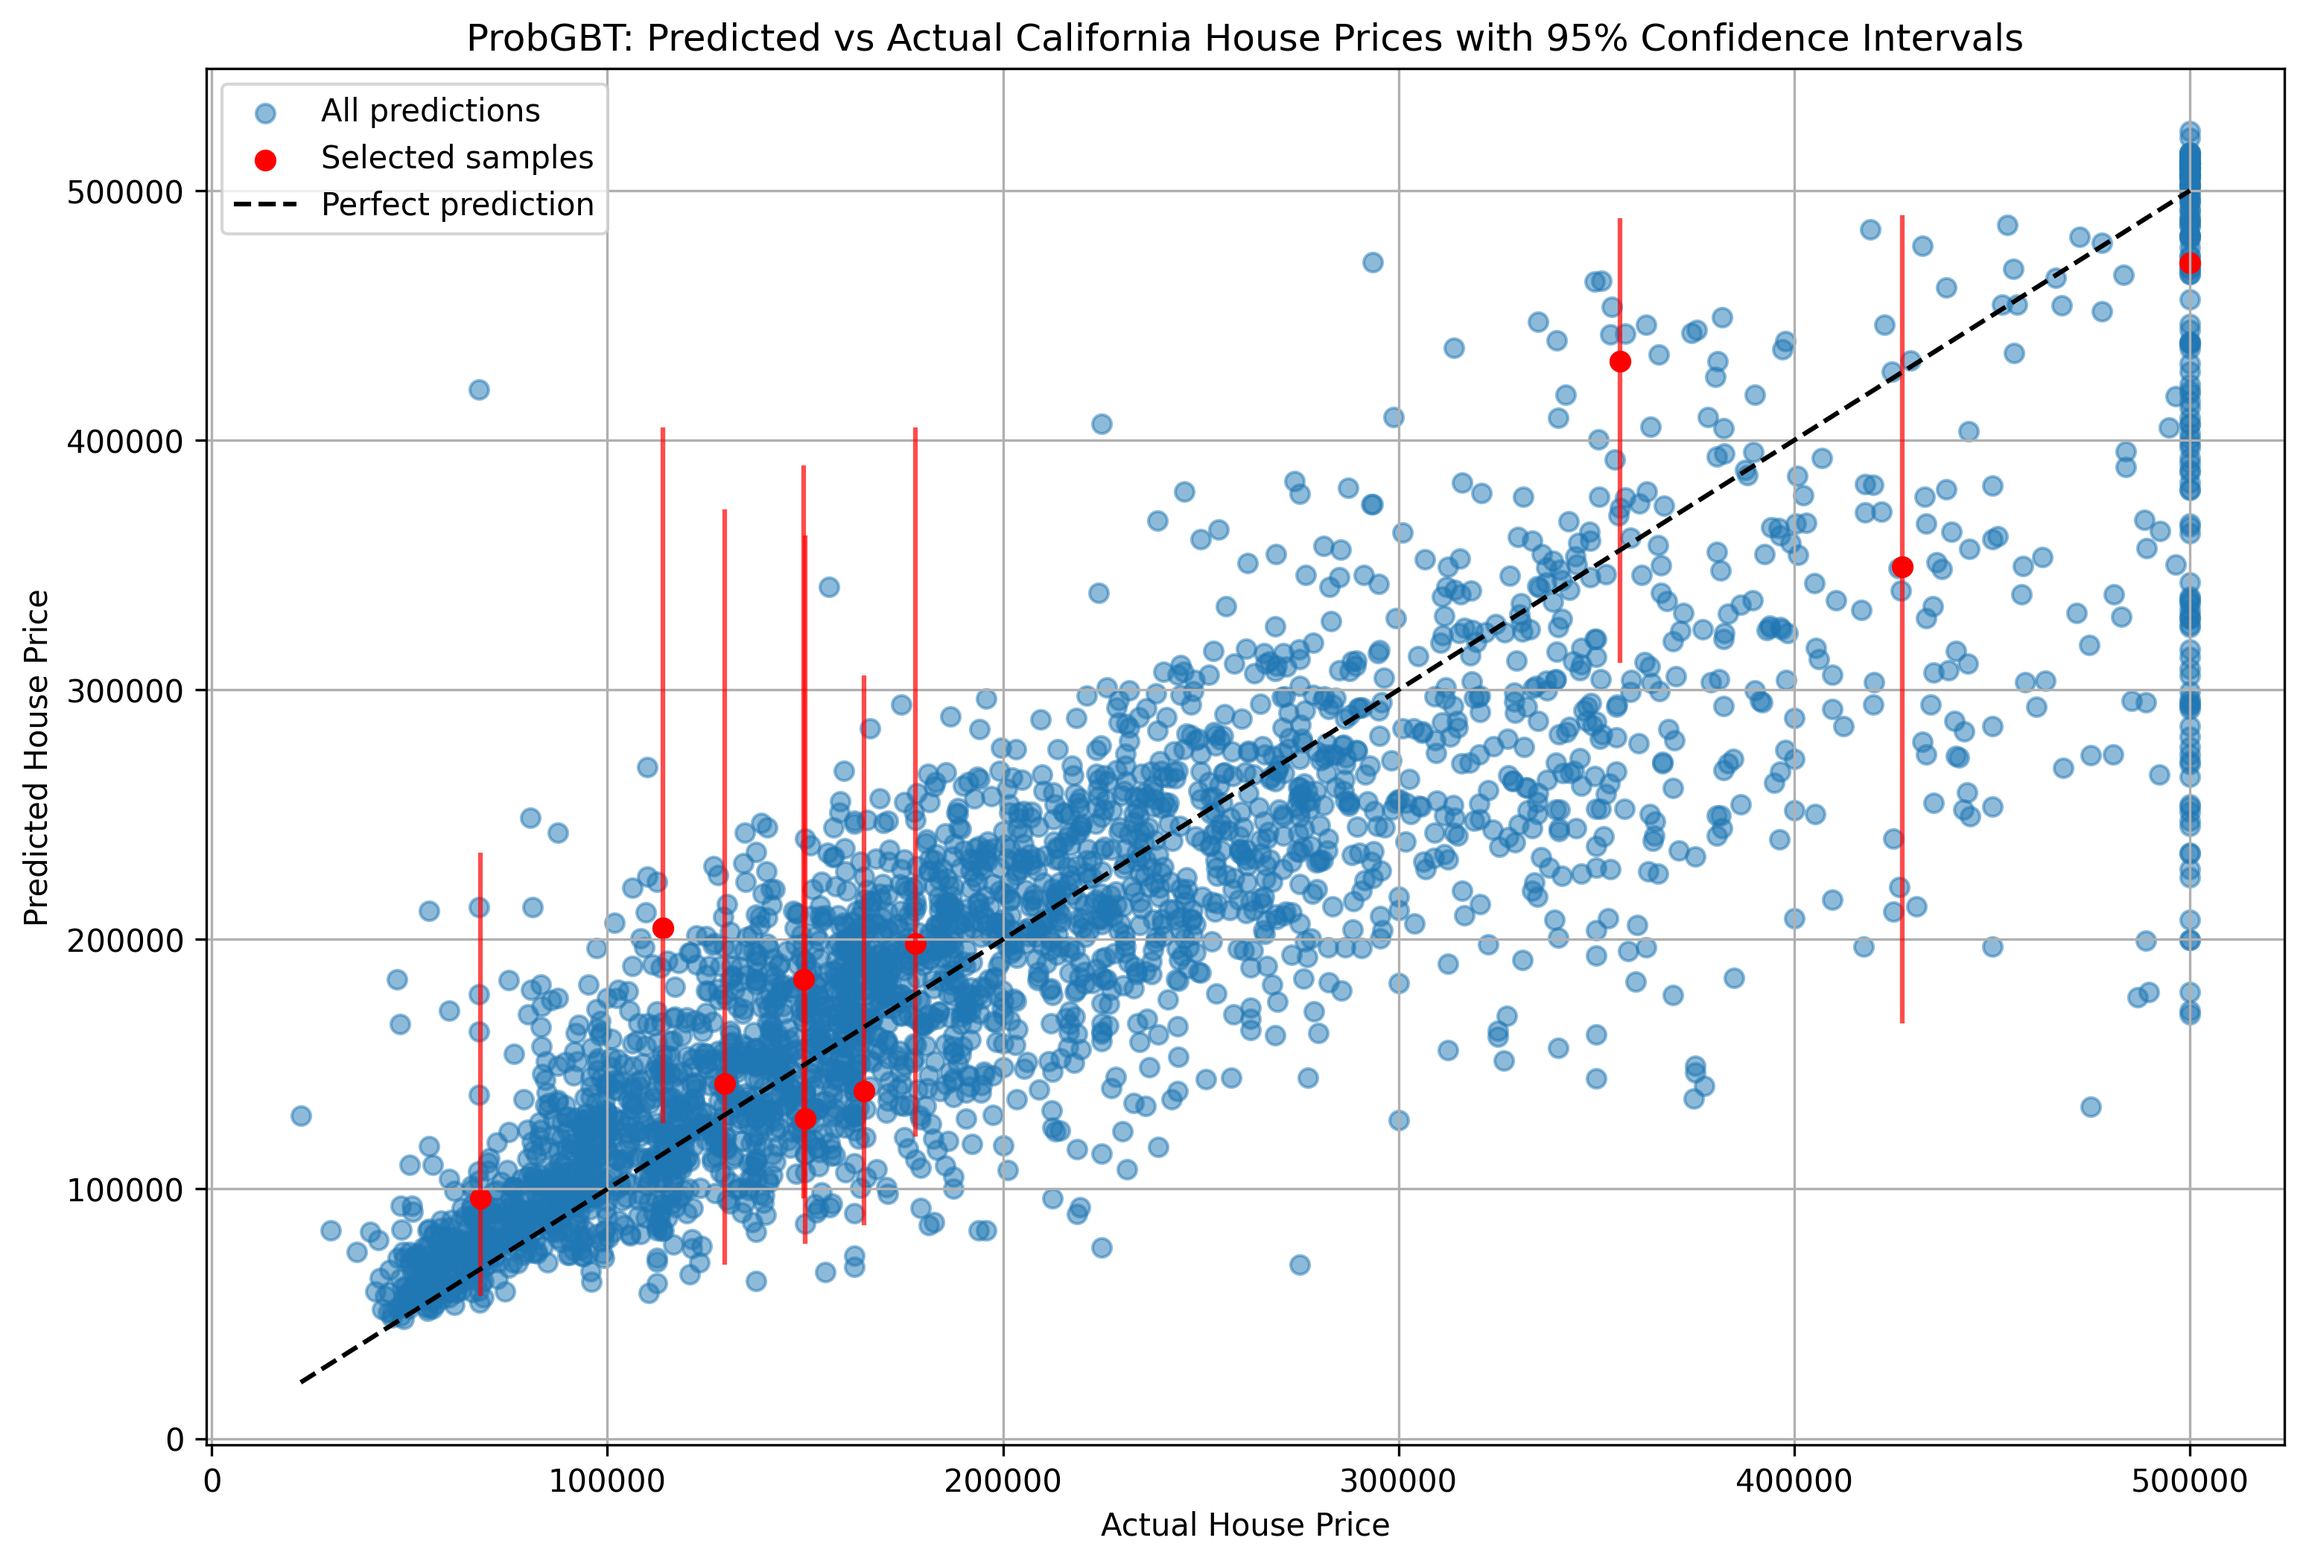
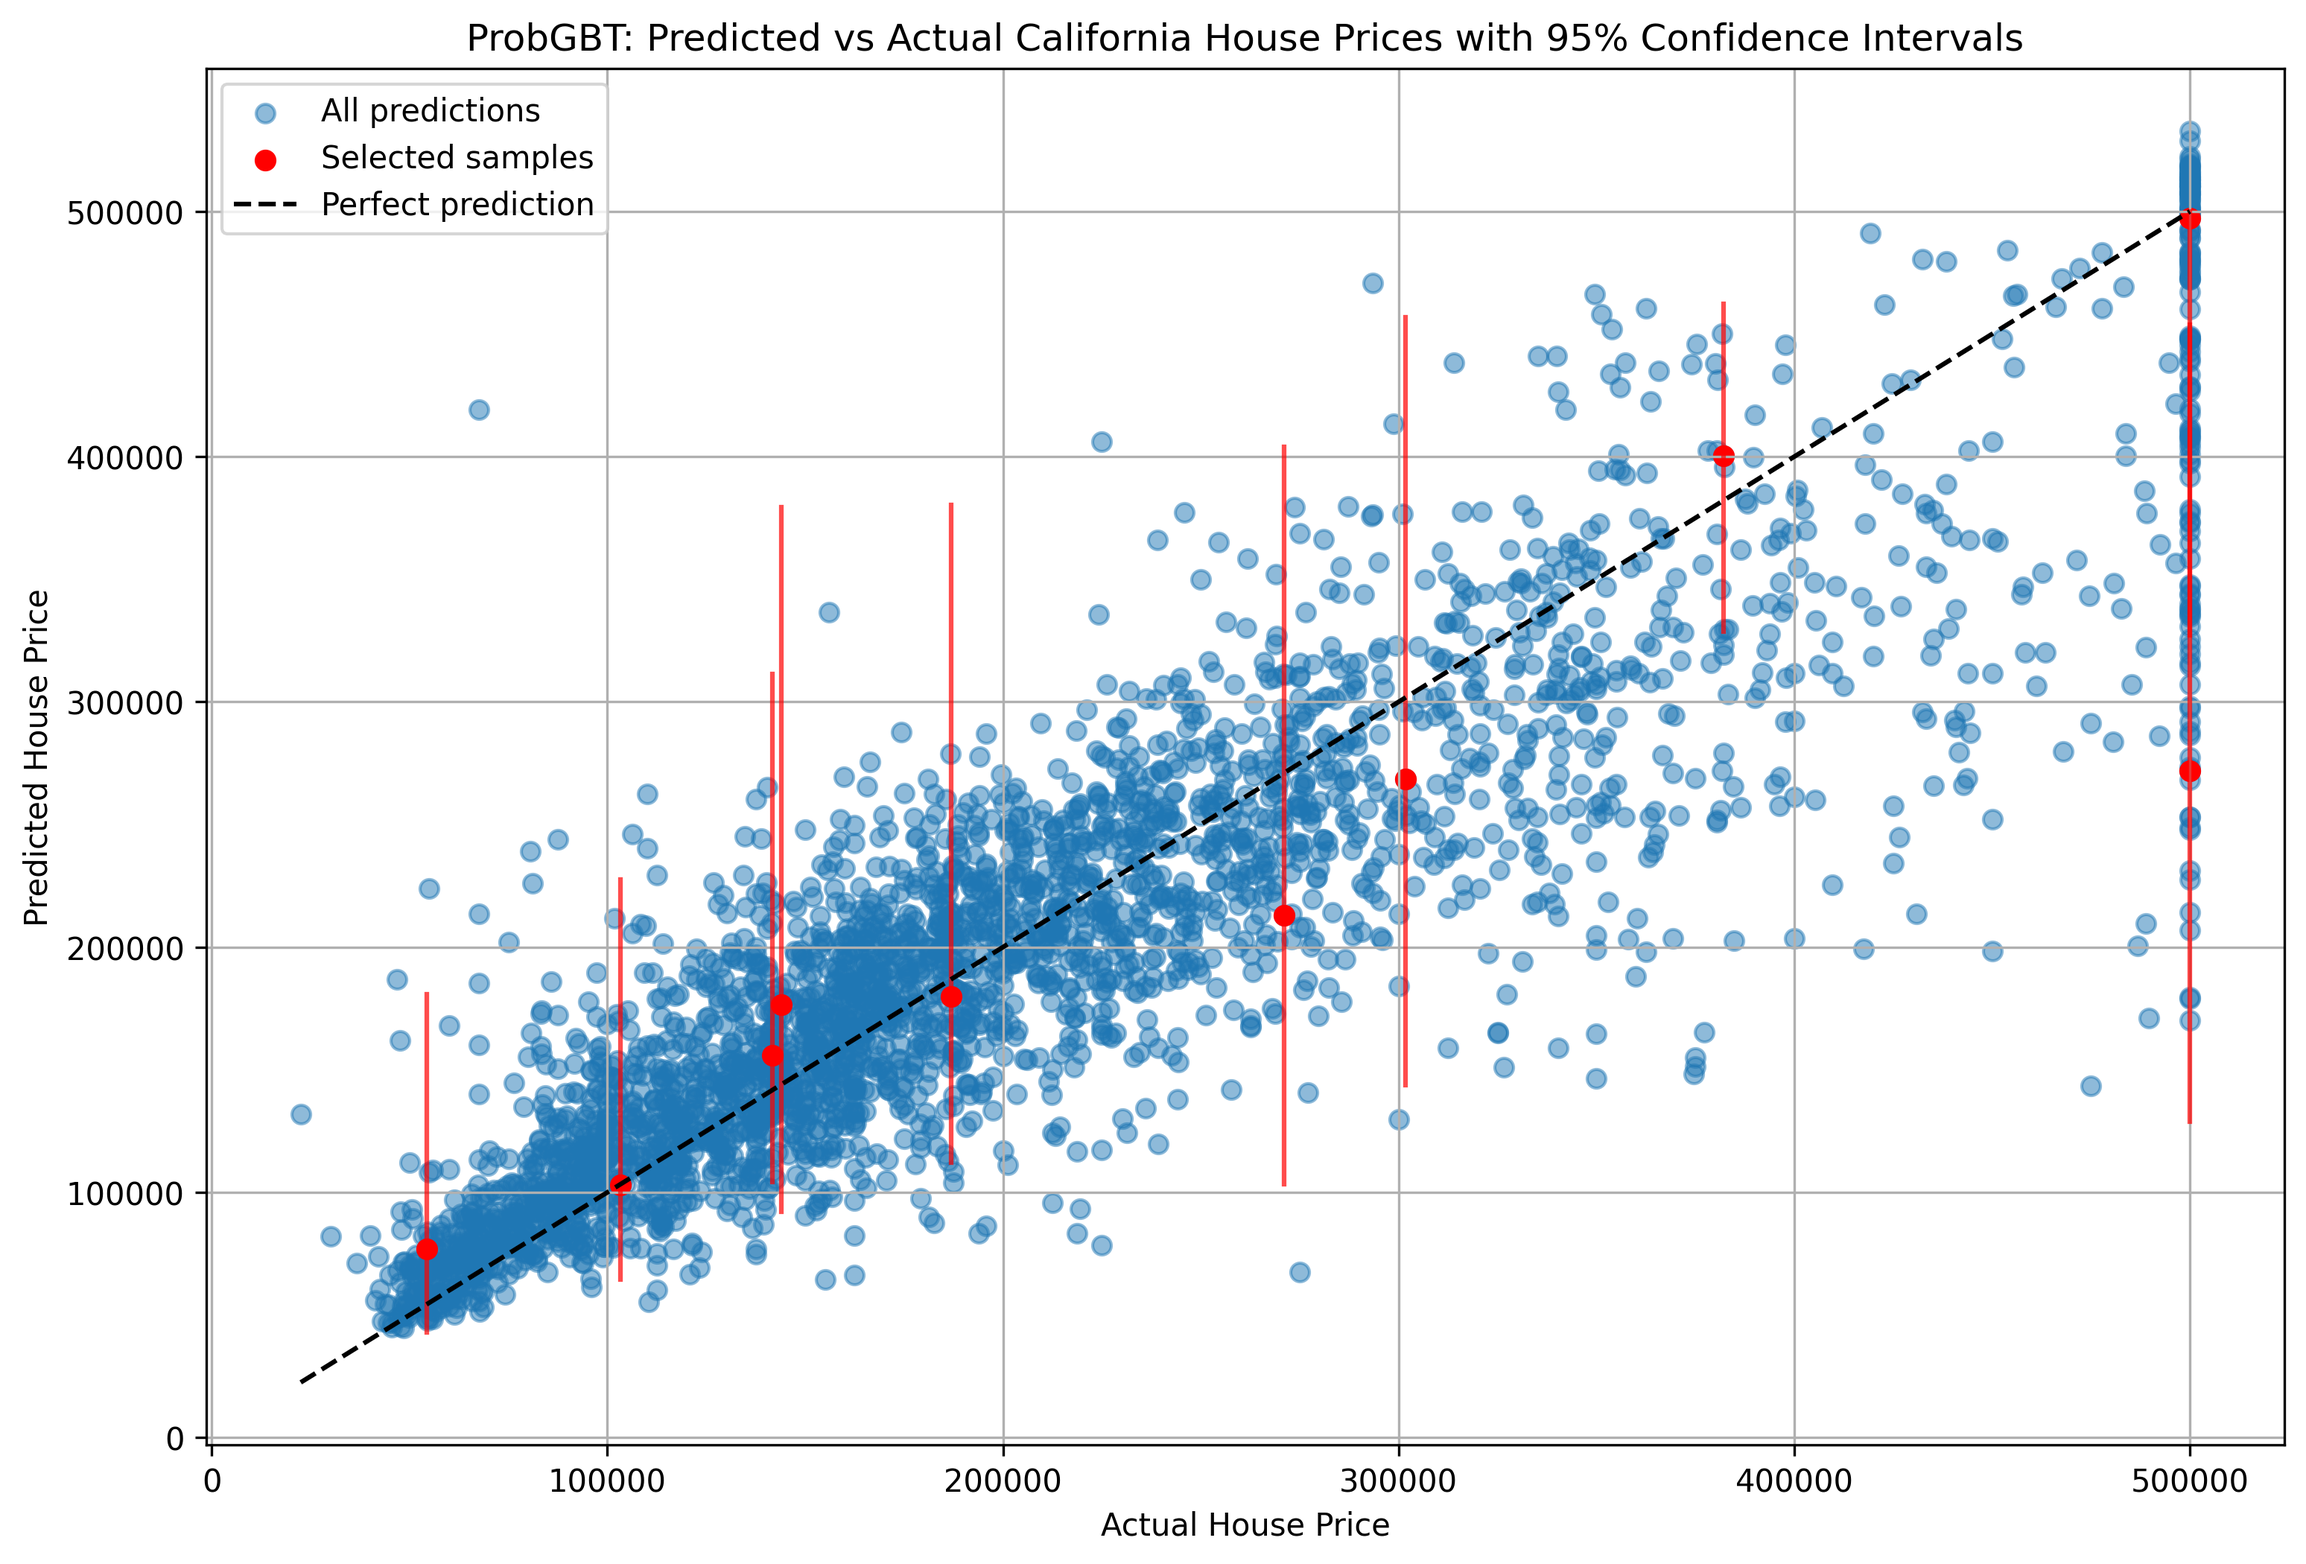
Add more checks to GMM method

diff --git a/prob_gbt/prob_gbt.py b/prob_gbt/prob_gbt.py
@@ -303,17 +303,73 @@ class ProbGBT:
                     gmm = GaussianMixture(n_components=3, max_iter=1000)
                     gmm.fit(y_pred_smooth.reshape(-1, 1))
                     
-                    # Generate final smoothed PDF on a regular grid
-                    x_values = np.linspace(np.min(y_pred_smooth), np.max(y_pred_smooth), num_points)
-                    pdf_values = np.exp(gmm.score_samples(x_values.reshape(-1, 1)))
-                    
-                    # Normalize the PDF
-                    integral = np.trapz(pdf_values, x_values)
-                    if integral > 1e-10:
-                        pdf_values /= integral
+                    # Check if GMM converged
+                    if not gmm.converged_:
+                        print(f"Warning: GMM did not converge after {gmm.n_iter_} iterations, using spline result")
+                        x_values = y_pred_smooth
+                        pdf_values = pdf_smooth
                     else:
-                        # If integral is too small, use a uniform distribution
-                        pdf_values = np.ones_like(x_values) / len(x_values)
+                        # Generate final smoothed PDF on a regular grid
+                        x_values = np.linspace(np.min(y_pred_smooth), np.max(y_pred_smooth), num_points)
+                        pdf_values = np.exp(gmm.score_samples(x_values.reshape(-1, 1)))
+                        
+                        # Much more aggressive checks for problematic GMM outputs
+                        use_gmm = True
+                        
+                        # 1. Check for any invalid values
+                        if np.any(np.isnan(pdf_values)) or np.any(np.isinf(pdf_values)) or np.all(pdf_values < 1e-10):
+                            print(f"Warning: GMM produced invalid values, using spline result")
+                            use_gmm = False
+                            
+                        # 2. Check for extremely peaked distributions (very common failure mode)
+                        if use_gmm:
+                            pdf_max = np.max(pdf_values)
+                            pdf_mean = np.mean(pdf_values)
+                            if pdf_max > 100 * pdf_mean:  # Less extreme threshold to be more cautious
+                                print(f"Warning: GMM produced extremely peaked distribution (max/mean ratio: {pdf_max/pdf_mean:.1f}), using spline result")
+                                use_gmm = False
+                        
+                        # 3. Check for too narrow effective support (another common failure)
+                        if use_gmm:
+                            # Count points with significant probability mass
+                            significant_points = np.sum(pdf_values > pdf_max * 0.01)
+                            if significant_points < num_points * 0.01:  # Less than 1% of points have significant probability
+                                print(f"Warning: GMM output has too narrow effective support ({significant_points}/{num_points} significant points), using spline result")
+                                use_gmm = False
+                        
+                        # 4. Generate a test CDF and check its properties
+                        if use_gmm:
+                            # Normalize PDF first
+                            integral = np.trapz(pdf_values, x_values)
+                            if integral <= 1e-10:
+                                print(f"Warning: GMM produced too small integral ({integral}), using spline result")
+                                use_gmm = False
+                            else:
+                                # Normalize and compute test CDF
+                                pdf_values /= integral
+                                test_cdf = cumulative_trapezoid(pdf_values, x_values, initial=0)
+                                
+                                # Check that CDF is usable for confidence intervals
+                                if test_cdf[-1] <= 0.9:  # CDF should end close to 1
+                                    print(f"Warning: GMM produced CDF that doesn't reach 1 (max: {test_cdf[-1]:.3f}), using spline result")
+                                    use_gmm = False
+                                    
+                                # Check if CDF has enough distinct steps for quantile calculation
+                                elif np.count_nonzero(np.diff(test_cdf) > 1e-6) < 20:
+                                    print(f"Warning: GMM produced CDF with too few increasing steps, using spline result")
+                                    use_gmm = False
+                                    
+                                # Check if the CDF can extract reasonable quantiles
+                                elif any(np.isclose(np.searchsorted(test_cdf, q) / len(test_cdf), 0) or 
+                                         np.isclose(np.searchsorted(test_cdf, q) / len(test_cdf), 1) 
+                                         for q in [0.025, 0.25, 0.5, 0.75, 0.975]):
+                                    print(f"Warning: GMM produced CDF that would give extreme quantiles, using spline result")
+                                    use_gmm = False
+                        
+                        # Finally, use spline results if any test failed
+                        if not use_gmm:
+                            x_values = y_pred_smooth
+                            pdf_values = pdf_smooth
                         
                 except Exception as e:
                     # If GMM fails, fall back to the spline result
@@ -327,6 +383,9 @@ class ProbGBT:
             # Normalize CDF to ensure it ends at 1.0
             if cdf_values[-1] > 0:
                 cdf_values /= cdf_values[-1]
+            else:
+                print(f"Warning: CDF ends at zero, falling back to uniform CDF")
+                cdf_values = np.linspace(0, 1, len(x_values))
                 
             # Ensure CDF is strictly increasing (important for accurate quantile lookup)
             # Find places where CDF doesn't increase
@@ -390,7 +449,6 @@ class ProbGBT:
             lower_q = (1 - confidence_level) / 2
             upper_q = 1 - (1 - confidence_level) / 2
             
-            # For both methods, find the quantiles from the CDF
             # Using 'right' side to find the correct index for lower bound
             # (the first index where CDF value is >= lower_quantile)
             lower_idx = np.searchsorted(cdf_values, lower_q, side='right')
